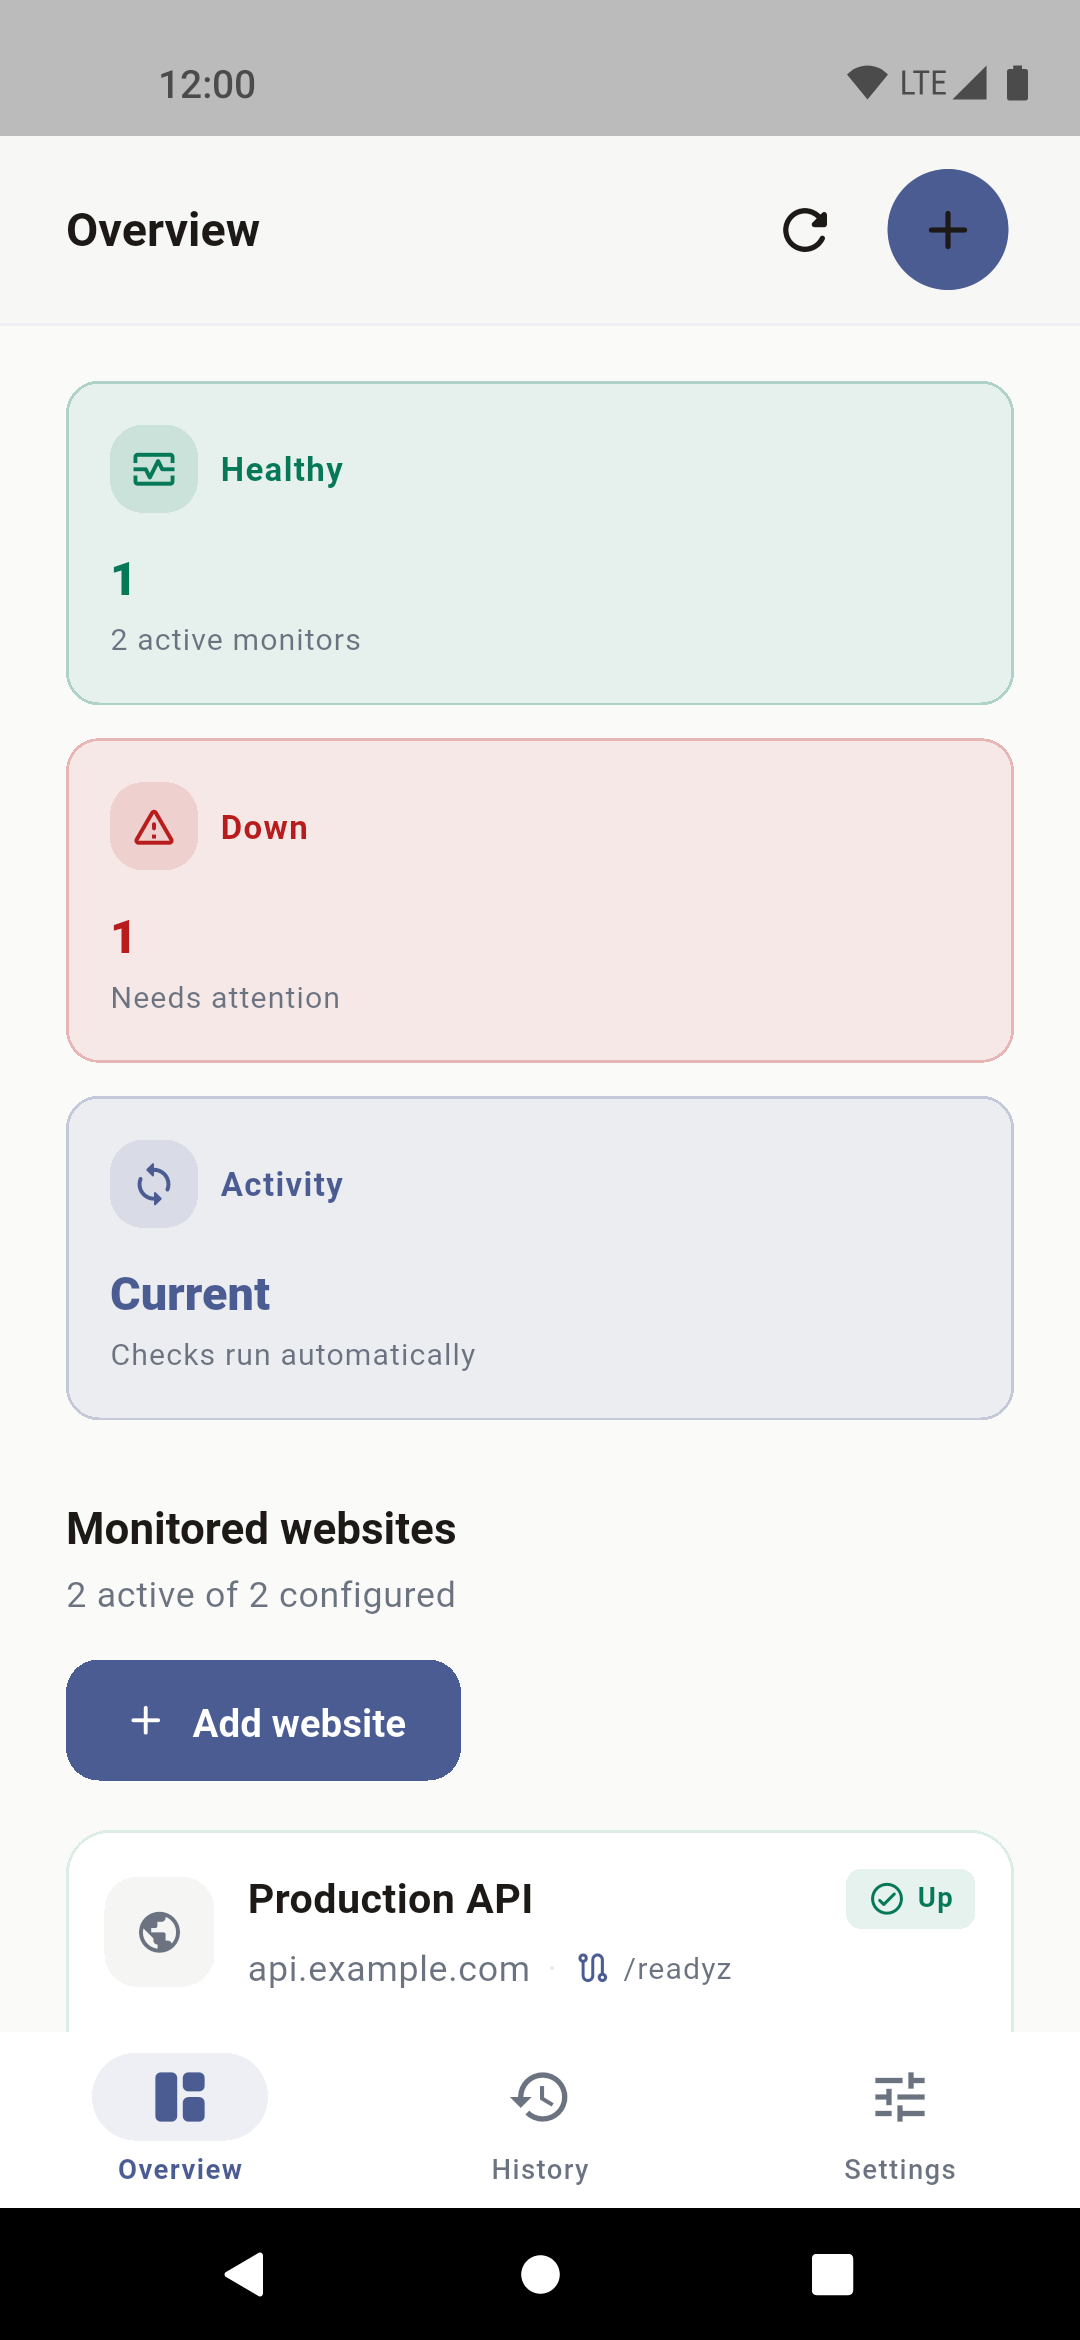
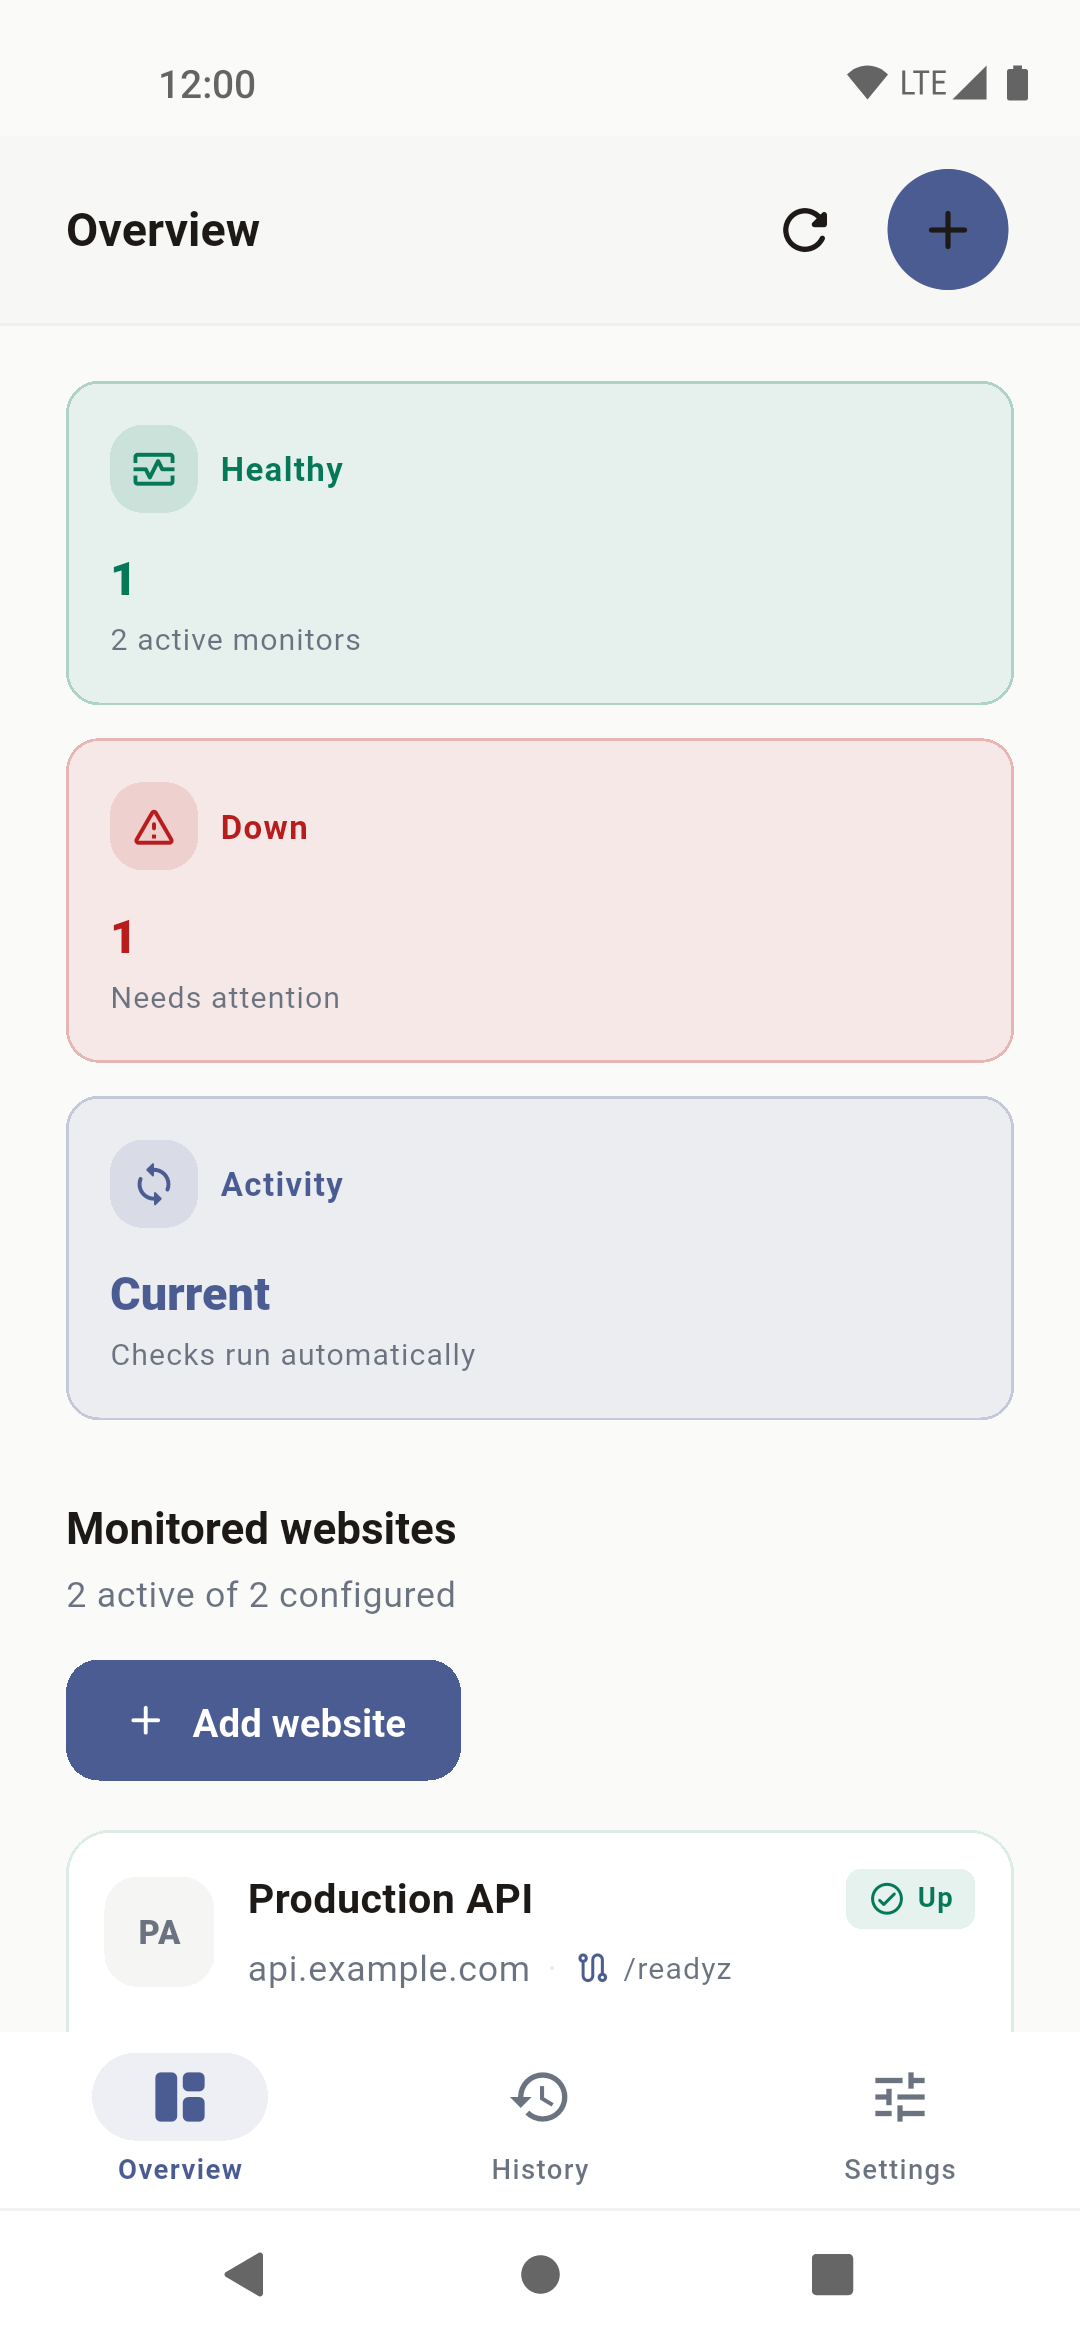
fix(android): keep system bars readable

Changed region(s): [[0.0, 0.9359, 1.0, 1.0], [0.0, 0.0, 1.0, 0.0624], [0.1222, 0.8111, 0.1833, 0.8423]]

diff --git a/lib/app/site_signal_app.dart b/lib/app/site_signal_app.dart
@@ -1,6 +1,7 @@
 import 'dart:async';
 
 import 'package:flutter/material.dart';
+import 'package:flutter/services.dart';
 import 'package:site_signal/core/theme/app_accent_color.dart';
 import 'package:site_signal/core/theme/app_dimensions.dart';
 import 'package:site_signal/core/theme/app_semantic_colors.dart';
@@ -84,6 +85,28 @@ class _SiteSignalAppState extends State<SiteSignalApp>
       themeMode: _themePreference.themeMode,
       theme: _lightTheme,
       darkTheme: _darkTheme,
+      builder: (context, child) {
+        final theme = Theme.of(context);
+        final isDark = theme.brightness == Brightness.dark;
+        return AnnotatedRegion<SystemUiOverlayStyle>(
+          key: const ValueKey('system-ui-overlay-style'),
+          value: SystemUiOverlayStyle(
+            statusBarColor: theme.scaffoldBackgroundColor,
+            statusBarBrightness: isDark ? Brightness.dark : Brightness.light,
+            statusBarIconBrightness: isDark
+                ? Brightness.light
+                : Brightness.dark,
+            systemStatusBarContrastEnforced: false,
+            systemNavigationBarColor: theme.colorScheme.surface,
+            systemNavigationBarDividerColor: theme.dividerColor,
+            systemNavigationBarIconBrightness: isDark
+                ? Brightness.light
+                : Brightness.dark,
+            systemNavigationBarContrastEnforced: false,
+          ),
+          child: child ?? const SizedBox.shrink(),
+        );
+      },
       home: DashboardShell(
         controller: widget.controller,
         applicationVersion: widget.applicationVersion,

diff --git a/test/widget_test.dart b/test/widget_test.dart
@@ -1,6 +1,7 @@
 import 'dart:convert';
 
 import 'package:flutter/material.dart';
+import 'package:flutter/services.dart';
 import 'package:flutter_test/flutter_test.dart';
 import 'package:site_signal/app/site_signal_app.dart';
 import 'package:site_signal/core/theme/app_theme_preference.dart';
@@ -21,6 +22,33 @@ Widget _testApp(MonitorController controller) {
 }
 
 void main() {
+  testWidgets('keeps Android system icons visible in light mode', (
+    tester,
+  ) async {
+    final controller = MonitorController(
+      repository: MemoryMonitorRepository(
+        paused: true,
+        themePreference: AppThemePreference.light,
+      ),
+      healthChecker: ScriptedHealthChecker(),
+      faviconResolver: FakeFaviconResolver(),
+      desktopBridge: FakeDesktopBridge(),
+      schedulerInterval: const Duration(days: 1),
+    );
+    await controller.initialize();
+
+    await tester.pumpWidget(_testApp(controller));
+    await tester.pumpAndSettle();
+
+    final region = tester.widget<AnnotatedRegion<SystemUiOverlayStyle>>(
+      find.byKey(const ValueKey('system-ui-overlay-style')),
+    );
+    expect(region.value.statusBarIconBrightness, Brightness.dark);
+    expect(region.value.systemNavigationBarIconBrightness, Brightness.dark);
+
+    await tester.pumpWidget(const SizedBox.shrink());
+  });
+
   testWidgets('recommends an available stable update', (tester) async {
     tester.view.physicalSize = const Size(1200, 900);
     tester.view.devicePixelRatio = 1;
